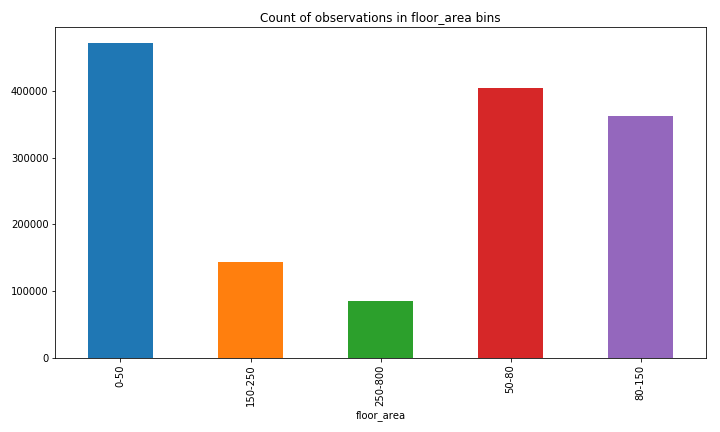
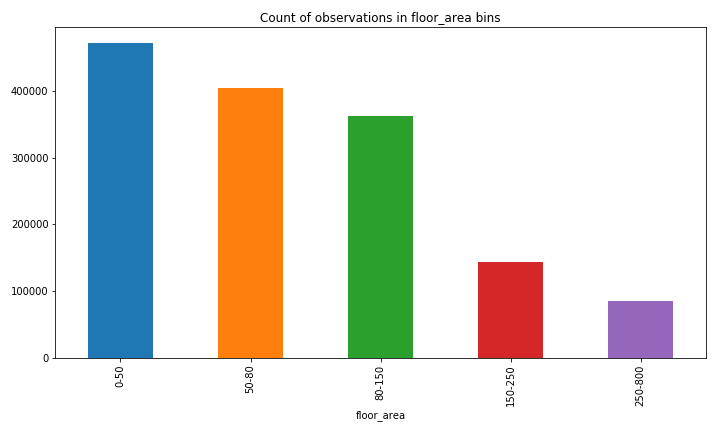
adding household entropy

diff --git a/features/feature_socios.py b/features/feature_socios.py
@@ -223,7 +223,7 @@ def extractSocios(searchlist, year=None, col_names=None, geo=None):
             pass
         
     if geo is None:
-        pass
+        result = result.merge(sub_ids[['AnswerID', 'ProfileID']], how='left')
     else:
         result = result.merge(sub_ids[['AnswerID', 'ProfileID', geo]], how='left')
                           
@@ -297,6 +297,7 @@ def generateSociosSetSingle(year, spec_file, set_id='ProfileID'):
                 data[k] = pd.cut(data[k], bins = bin_vals, labels = labels[k],
                     right=eval(cut[k]['right']), 
                                include_lowest=eval(cut[k]['include_lowest']))
+                data[k].cat.reorder_categories(labels[k], inplace=True)
             except KeyError:
                 data[k] = pd.cut(data[k], bins = bin_vals, labels = labels[k])                                  
         
@@ -334,7 +335,7 @@ def generateSociosSetMulti(spec_files, year_start=1994, year_end=2014):
     
     return ff
 
-def genS(spec_files, year_start, year_end, filetype='txt'):
+def genS(spec_files, year_start, year_end, filetype='feather'):
     """
     This function saves an evidence dataset with observations in the data directory.
     
@@ -355,10 +356,8 @@ def genS(spec_files, year_start, year_end, filetype='txt'):
     
     try:
         try:
-            with open(file_path, 'r') as f:
-                e = json.load(f)
-                evidence = pd.DataFrame(e).rename_axis('ProfileID')
-                evidence.index = evidence.index.astype(int)
+            evidence = feather.read_dataframe(file_path)
+            evidence.set_index('ProfileID',inplace=True)
         except:
             evidence = pd.read_csv(file_path).set_index('ProfileID')
     
@@ -367,8 +366,8 @@ def genS(spec_files, year_start, year_end, filetype='txt'):
         evidence = generateSociosSetMulti(spec_files, year_start, year_end)
         status = 1      
         message = 'Success!'
-        if filetype == 'txt':
-            evidence.to_json(file_path)
+        if filetype == 'feather':
+            feather.write_dataframe(evidence.reset_index(), file_path)
         elif filetype == 'csv':
             evidence.to_csv(file_path)
         else:

diff --git a/features/feature_extraction.py b/features/feature_extraction.py
@@ -51,7 +51,7 @@ def plotF(F, columns, save_name=None):
     
     return fig
 
-def genF(experiment, year_start, year_end, drop_0, socios):
+def genF(experiment, year_start, year_end, drop_0, socios, save=False):
 
     X = genX([1994,2014], drop_0)
     Xdd = pd.DataFrame(X.sum(axis=1), columns=['DD']).reset_index()
@@ -70,7 +70,7 @@ def genF(experiment, year_start, year_end, drop_0, socios):
     Xdd['season'] = Xdd.season.where(Xdd.season=='summer', 'winter')
     Xdd['daytype'] = Xdd.weekday.where(~Xdd.weekday.isin(work_week), 'weekday')
     
-    S = genS(socios, year_start, year_end, 'csv').reset_index()
+    S = genS(socios, year_start, year_end, 'feather').reset_index()
     Sdd = pd.concat([S, Xdd.groupby(['ProfileID']).DD.mean()], axis=1, join='inner').rename(columns={'DD':'ADD'})
 
     Xdd.drop(columns=['date','month','weekday','DD'], inplace=True)
@@ -84,11 +84,13 @@ def genF(experiment, year_start, year_end, drop_0, socios):
     bin_labels = ['{0:.0f}-{1:.0f}'.format(x,y) for x, y in zip(daily_demand_bins[:-1], daily_demand_bins[1:])]
     F['ADD'] = pd.cut(F.ADD, daily_demand_bins, labels=bin_labels, right=False)
     F['ADD'] = F.ADD.where(~F.ADD.isna(), 0)
-    F.iloc[:,1:] = F.iloc[:,1:].apply(lambda x: x.astype('category'))
+    F['ADD'] = F.ADD.astype('category')
+#    F.iloc[:,1:] = F.iloc[:,1:].apply(lambda x: x.astype('category'))
     F.ADD.cat.reorder_categories([0]+bin_labels, ordered=True,inplace=True)
     
-    for c in F.columns.drop(['ProfileID']):
-        plotF(F, [c], socios)
+    if save is True:
+        for c in F.columns.drop(['ProfileID']):
+            plotF(F, [c], socios)
     
     return F
 

diff --git a/evaluation/evalClusters.py b/evaluation/evalClusters.py
@@ -348,3 +348,25 @@ def clusterEntropy(likelihood, random_likelihood=None):
     ##TODO need to check how to calculate entropy when variables are weighted
     
     return cluster_entropy, max_entropy    
+
+def householdEntropy(label_data):
+    
+    if len(label_data.columns)>1:
+        return('Too many columns to compute. Select 1 column only')
+    else:
+        label_data.columns = ['k']
+    df = label_data.reset_index()
+    
+    data = df.groupby(['ProfileID','k'])['date'].count().rename('day_count').reset_index()
+    hh_lbls = data.pivot(index='ProfileID',columns='k',values='day_count')
+    hh_likelihood = hh_lbls.divide(hh_lbls.sum(axis=1), axis=0)
+    random_likelihood = 1/47
+    
+    cluster_entropy = hh_likelihood.applymap(lambda x : -x*log(x,2)).sum(axis=1)
+    max_entropy = -random_likelihood*log(random_likelihood,2)*47
+    
+    return cluster_entropy, max_entropy
+
+#hhe1, me1 = householdEntropy(lbls[lbls.date.dt.month==1].set_index(['ProfileID','date']))
+#Sent = pd.concat([S, (hhe1/me1)], axis=1, join='inner').rename(columns={0:'rele'})
+#Sent.groupby('monthly_income')['rele'].mean()
